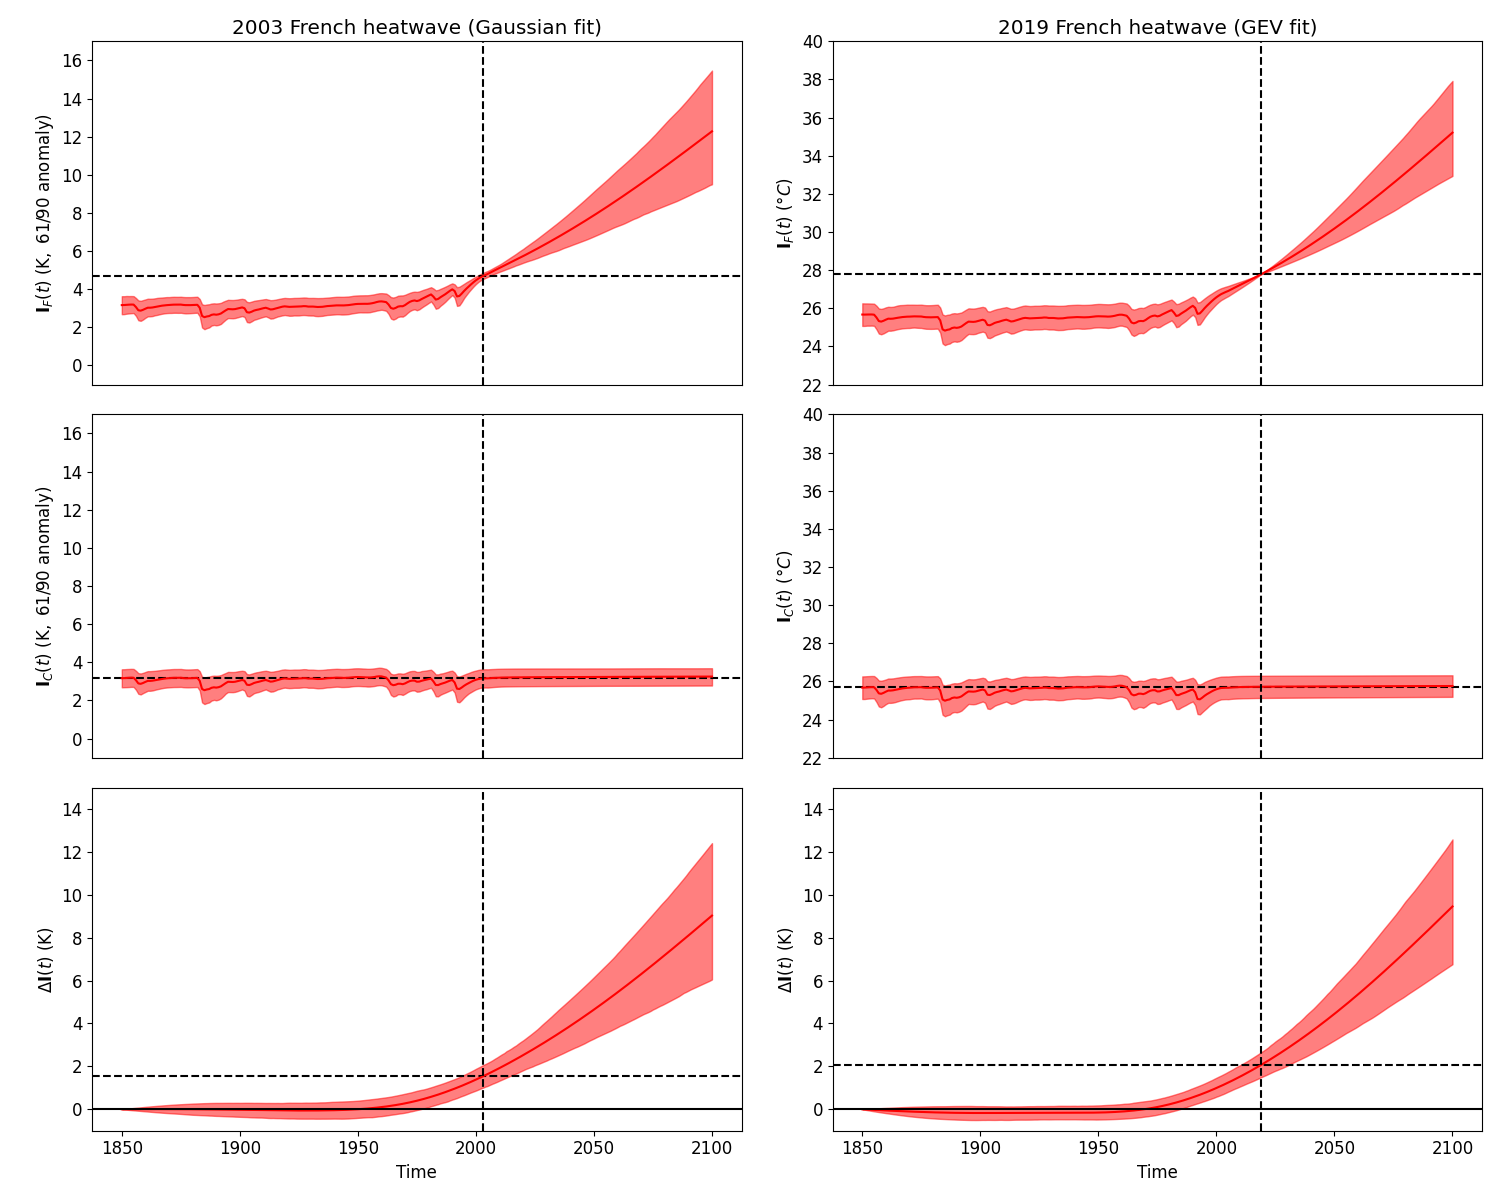
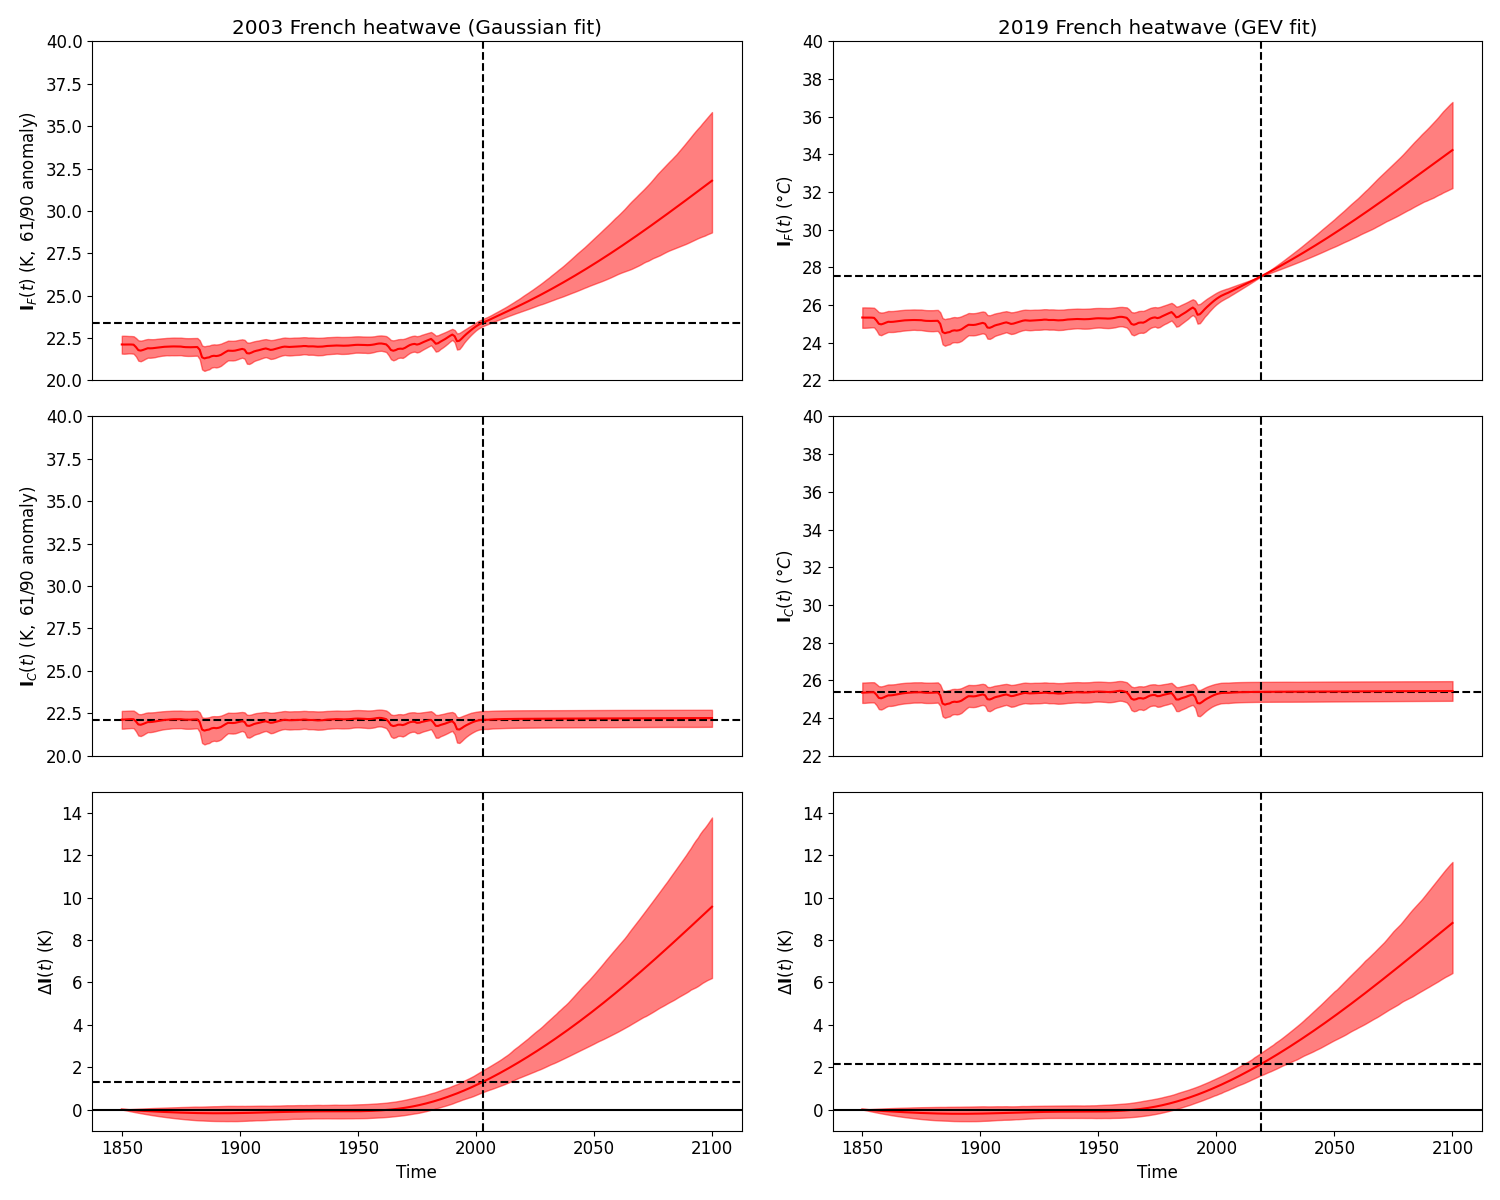
Update figures with new output

diff --git a/figures/Intensities.py b/figures/Intensities.py
@@ -155,7 +155,7 @@ if __name__ == "__main__":
 	
 	m = "Multi_Synthesis"
 	title = ["2003 French heatwave (Gaussian fit)","2019 French heatwave (GEV fit)"]
-	ylimI  = [(-1,17),(22,40)]
+	ylimI  = [(20,40),(22,40)]
 	ymindI = -1
 	ymaxdI = 15
 	units = [r"(\mathrm{K},\ 61/90\ \mathrm{anomaly})","(°C)"]
